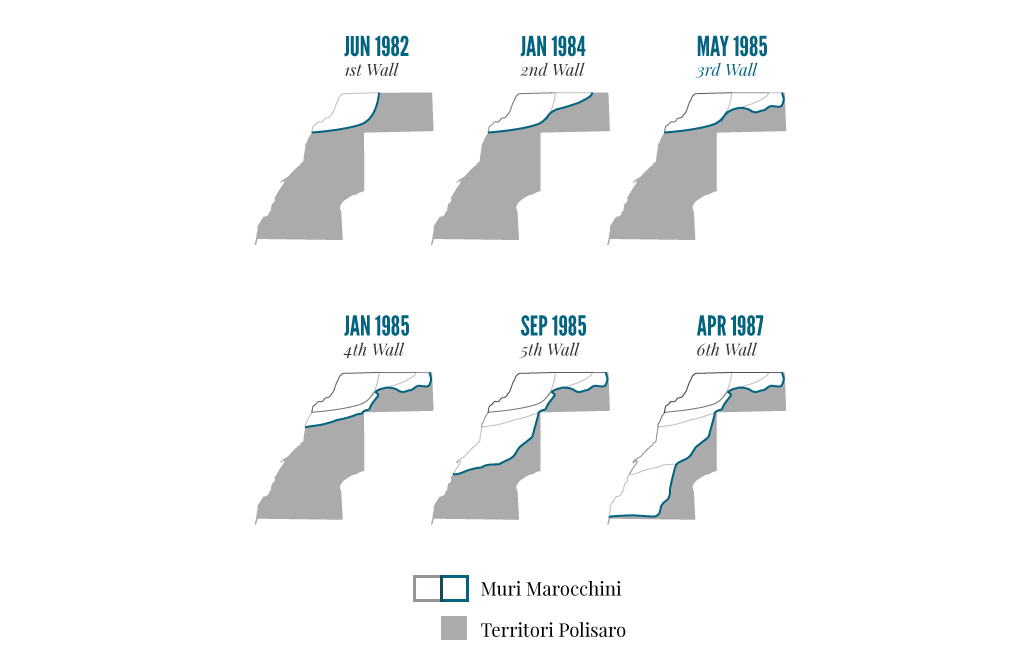
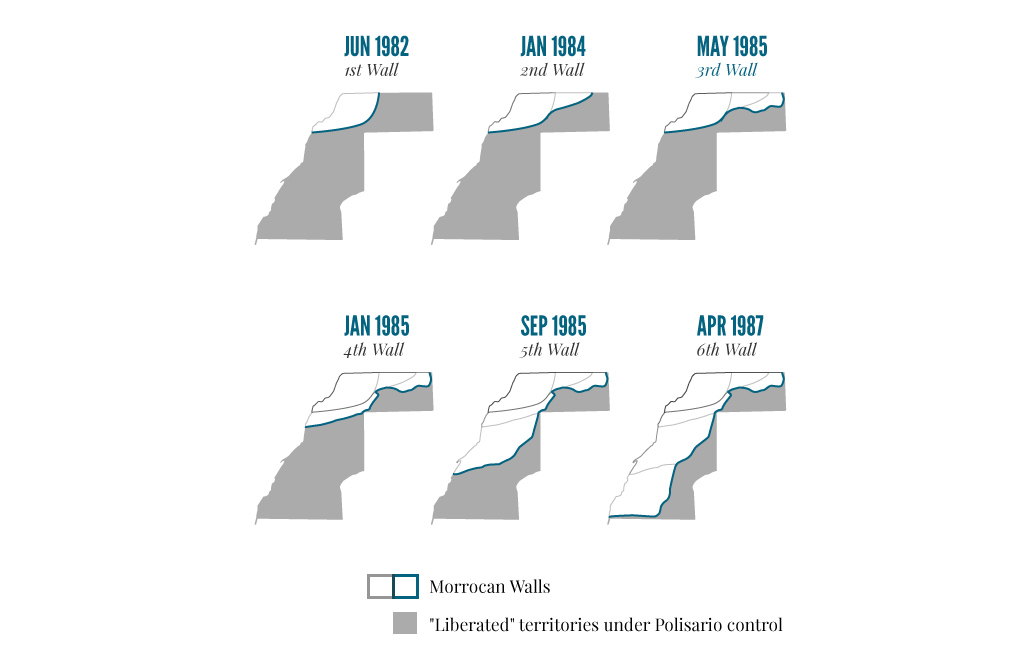
dsada

Changed region(s): [[0.3408, 0.8524, 0.7744, 0.9741]]

diff --git a/index_en.html b/index_en.html
@@ -155,9 +155,21 @@
 
             </ul>
             <section class="top-bar-section">
-                <!-- Right Nav Section -->
-
-                <!-- Left Nav Section -->
+                <div class="hide-for-small buttons-social">
+              
+             
+            
+         
+              <script>function fbs_click() {u=location.href;t=document.title;window.open('http://www.facebook.com/sharer.php?u='+encodeURIComponent(u)+'&t='+encodeURIComponent(t),'sharer','toolbar=0,status=0,width=626,height=436');return false;}</script><style> html .fb_share_button { margin-bottom:-8px; display: -moz-inline-block; display:inline-block; padding: 0 20px 0 5px; height:25px; background:url(http://www.isaccochiaf.me/exile/img/social_fb.png?0:26981) no-repeat top right; background-size:25px 25px } html  no-repeat top right; background-size:25px 25px } </style> <a href="http://www.facebook.com/share.php?u=<url>" class="fb_share_button" onclick="return fbs_click()" target="_blank" style="text-decoration:none;"></a>
+              <a id="ref_tw" href="http://twitter.com/home?status=The Dark Side of the Italian Tomato. Guarda il web documentario http://www.internazionale.it/webdoc/tomato %23DarkSideTomato su @Internazionale"  onclick="javascript:window.open(this.href, '', 'menubar=no,toolbar=no,resizable=no,scrollbars=no,height=400,width=600');return false;">
+              <img src="http://www.isaccochiaf.me/exile/img/social_tw.png" width="25"> </a>
+              
+              <a id="ref_gp" href="https://plus.google.com/share?url=http://www.internazionale.it/webdoc/tomato/"  onclick="javascript:window.open(this.href, '', 'menubar=no,toolbar=no,resizable=no,scrollbars=no,height=400,width=600');return false;">
+              
+              <img src="http://www.isaccochiaf.me/exile/img/social_gl.png" width="25"> </a>
+             
+          </div>
+      </div> 
 
             </section>
         </nav>
@@ -451,27 +463,27 @@ By s ome estimates the number of land mines and anti-tank devices placed near th
 
 
         <div class="medium-2 columns wp6">
-            <img src="img/wall_01.jpg">
+            <img src="img/wall_01_en.jpg">
         </div>
         <div class="medium-2 columns wp7">
-            <img src="img/wall_02.jpg">
+            <img src="img/wall_02_en.jpg">
         </div>
         <div class="medium-2 columns wp8">
-            <img src="img/wall_03.jpg">
+            <img src="img/wall_03_en.jpg">
         </div>
         <div class="medium-2 columns wp9">
-            <img src="img/wall_04.jpg">
+            <img src="img/wall_04_en.jpg">
         </div>
         <div class="medium-2 columns wp10">
-            <img src="img/wall_05.jpg">
+            <img src="img/wall_05_en.jpg">
         </div>
         <div class="medium-2 columns wp11">
-            <img src="img/wall_06.jpg">
+            <img src="img/wall_06_en.jpg">
         </div>
     </div>
     <div class="row show-for-large-only">
         <div class="medium-12 columns">
-            <img src="img/legenda.jpg">
+            <img src="img/legenda_en.jpg">
         </div>
     </div>
     <div class="row">
@@ -495,8 +507,8 @@ By s ome estimates the number of land mines and anti-tank devices placed near th
             <br />
             <br />
             <br />
-            <img class="show-for-medium-up" src="img/landmines_graph.jpg">
-            <img class="show-for-small-only" src="img/landmines_graph_small.jpg">
+            <img class="show-for-medium-up" src="img/landmines_graph_en.jpg">
+            <img class="show-for-small-only" src="img/landmines_graph_small_en.jpg">
         </div>
     </div>
     <div class="row">
